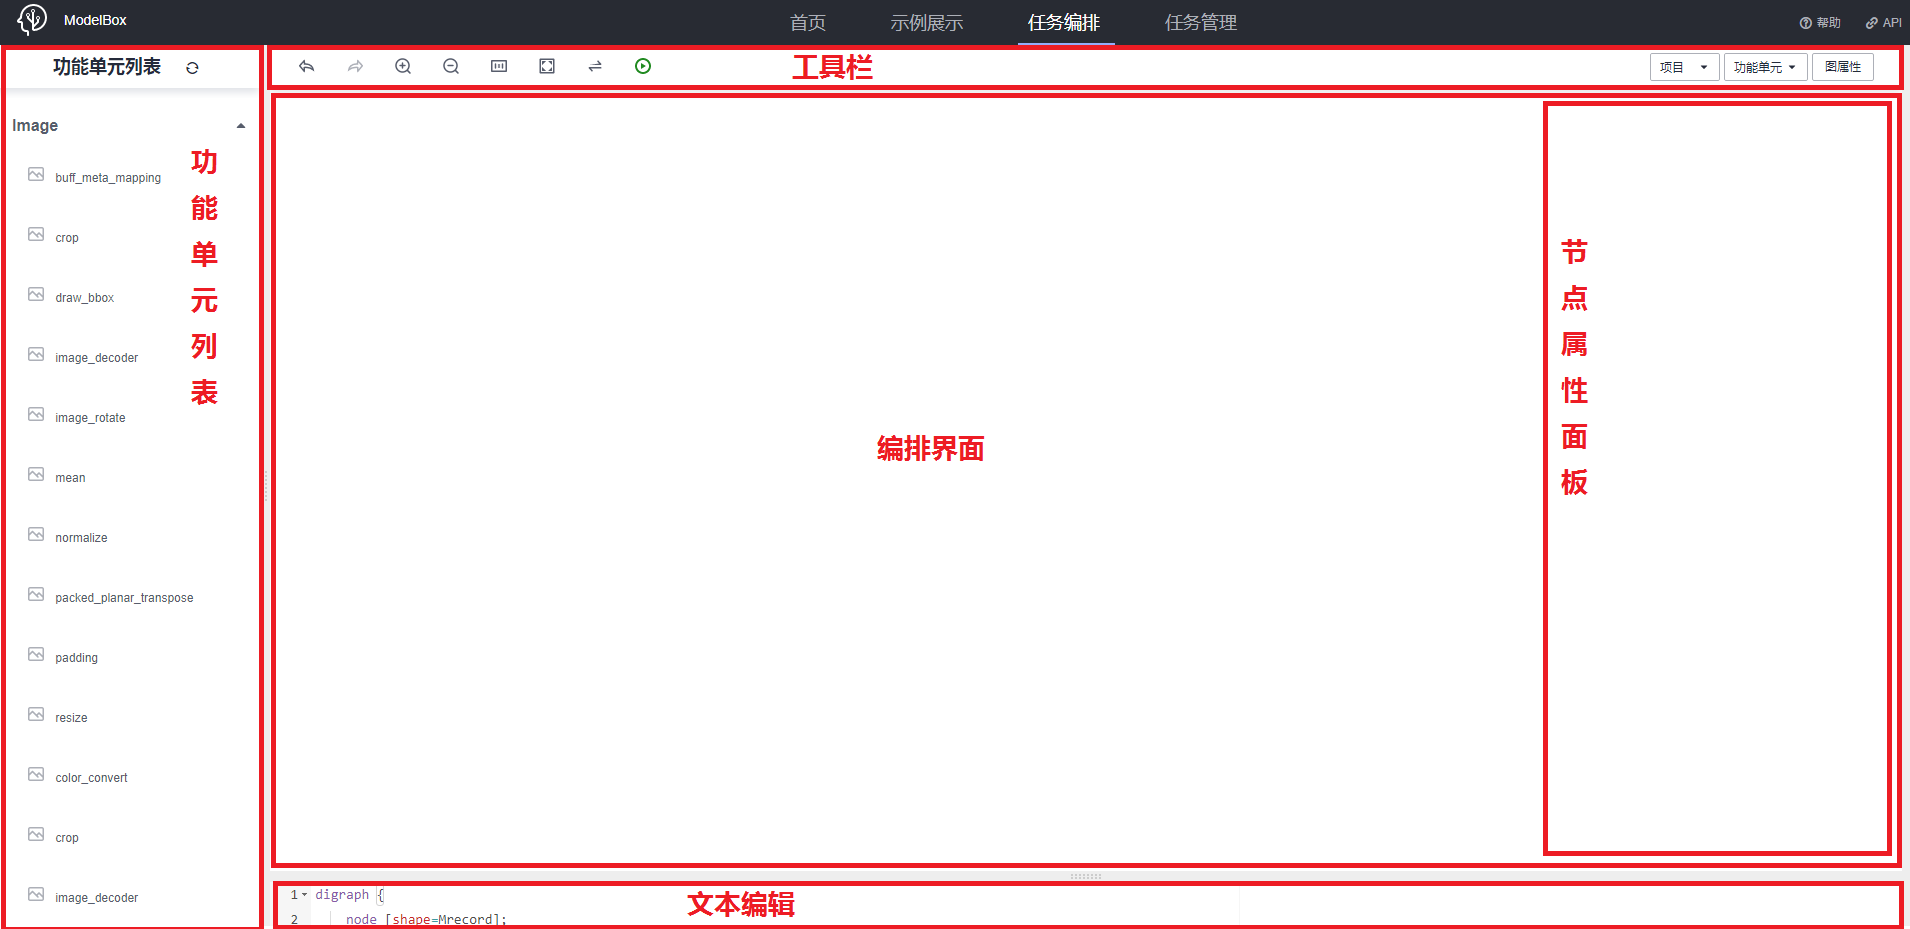
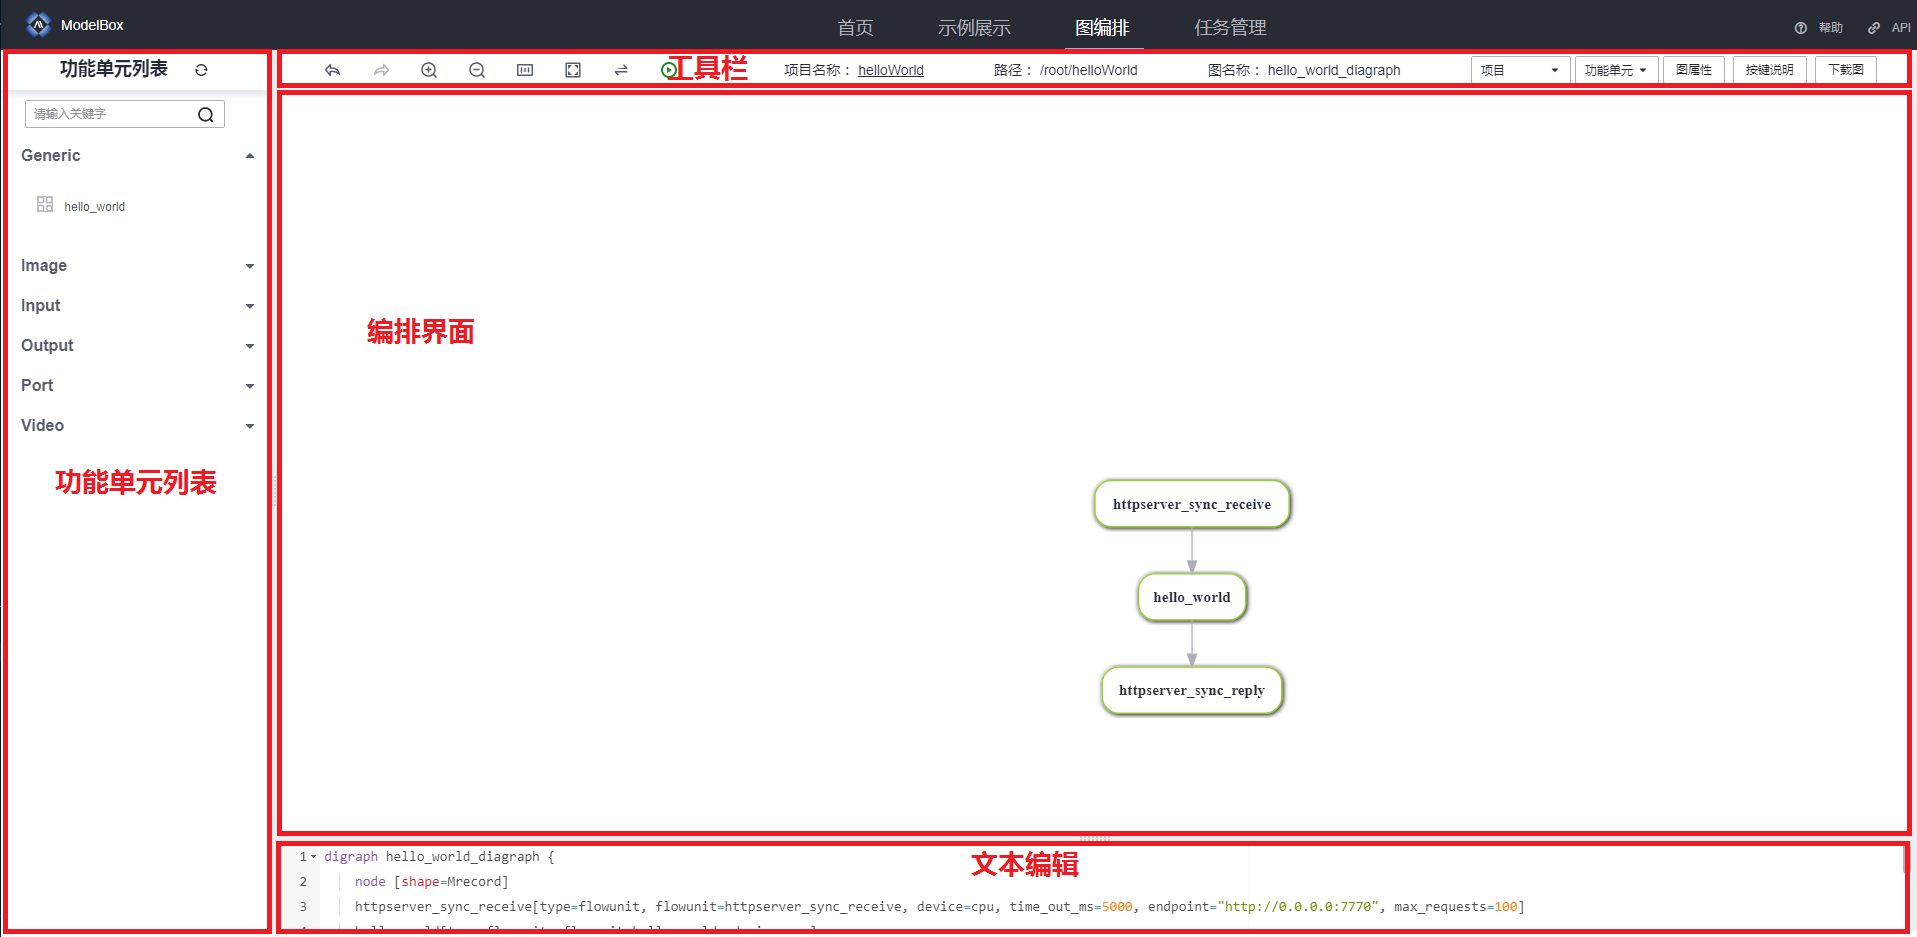
Doc: update UI editor

diff --git a/plugins/editor.md b/plugins/editor.md
@@ -1,6 +1,6 @@
 # 可视化编排插件
 
-ModelBox提供了在线可视化编排的工具——Editor，在开发时，可使用此工具，提升开发效率。
+ModelBox提供了在线可视化编排的工具——Editor。在开发时，可使用此工具进行创建项目、创建功能单元、编排图、调试等来提升开发效率。
 
 ## 编排插件是什么
 
@@ -10,30 +10,33 @@ ModelBox提供了在线可视化编排的工具——Editor，在开发时，可
 
 ![editor-feature alt rect_w_500](../assets/images/figure/server/editor-feature.png)
 
-1. 安装ModelBox server服务。
 1. 配置ModelBox Server。
-1. 配置启用编排插件。
-1. 浏览器访问Editor界面。
-1. 业务进行编排操作。
-1. 下发编排任务。
+2. 配置启用编排插件。
+3. 浏览器访问Editor界面。
+4. 业务进行编排操作。
+5. 下发编排任务。
 
 编排插件集成在ModelBox Server中，默认情况下，编排插件未启用。可以参考下方[编排插件配置](#编排插件配置)章节来启用编排插件并加载Editor界面。
 
 ## 编排插件配置
 
-ModelBox Server安装完成后，编排插件会通过插件的形式由ModelBox Server加载，并在网页浏览器上提供在线可视化编排插件。
+### 配置ModelBox Server
+
+[ModelBox Server安装](../environment/container-usage.md)完成后，编排插件会通过插件的形式由ModelBox Server加载，并在网页浏览器上提供在线可视化编排插件。
 
 对应插件路径为`"/usr/local/lib/modelbox-plugin-editor.so"`(#由于不同操作系统目录结构存在差异，此路径也可能为 `"/usr/local/lib64/modelbox-plugin-editor.so"`，下文涉及系统lib库路径的地方均存在系统路径差异)。
 
 编排插件的配置文件路径为`$HOME/modelbox-service/conf/modelbox.conf`，其配置项目如下：
 
-| 配置项目               | 配置说明                                                                    |
-| ---------------------- | --------------------------------------------------------------------------- |
-| editor.enable          | 是否启用Editor工具                                                          |
-| editor.ip              | Editor工具监听IP，默认为127.0.0.1。不指定的情况下，和server.ip一致          |
-| editor.port            | Editor工具监听端口，默认为1104，不指定情况下，和server.port一致             |
-| editor.root            | Editor前端UI路径，默认为/usr/local/share/modelbox/www                       |
-| editor.demo_root       | Editor demo路径，默认为/usr/local/share/modelbox/demo |
+| 配置项目         | 配置说明                                                           |
+| ---------------- | ------------------------------------------------------------------ |
+| editor.enable    | 是否启用Editor工具                                                 |
+| editor.ip        | Editor工具监听IP，默认为127.0.0.1。不指定的情况下，和server.ip一致 |
+| editor.port      | Editor工具监听端口，默认为1104，不指定情况下，和server.port一致    |
+| editor.root      | Editor前端UI路径，默认为/usr/local/share/modelbox/www              |
+| editor.demo_root | Editor demo路径，默认为/usr/local/share/modelbox/demo              |
+
+### 配置启用编排插件
 
 通过如下命令，可开启基于Web的可视化编辑工具——Editor：
 
@@ -45,92 +48,92 @@ modelbox-tool develop -s
 
 **如果访问被拒绝，可以尝试检查并修改ACL配置**，并重启ModelBox服务生效，详见**访问控制列表**章节。
 
-* **Editor配置**
+## Editor配置
 
   若需要定制化编排服务启动参数，可以修改配置文件，具体修改流程如下：
 
-  1. 打开`$HOME/modelbox-service/conf/modelbox.conf`，修改其中的配置项：
+1. 打开`$HOME/modelbox-service/conf/modelbox.conf`，修改其中的配置项：
+
+ ```shell
+ [server]
+ ip = "0.0.0.0"
+ port = "1104"
+ flow_path = "$HOME/modelbox-service/graph"
+ 
+ [plugin]
+ files = [
+     "/usr/local/lib/modelbox-plugin.so",
+     "/usr/local/lib/modelbox-plugin-editor.so"
+ ]
+ 
+ [control]
+ enable = true
+ listen = "$HOME/modelbox-service/run/modelbox.sock"
+ 
+ [acl]
+ allow = [
+     "127.0.0.1/8",
+     # ADD CLIENT HOST HERE
+     "192.168.59.145"
+ ]
+ 
+ [editor]
+ enable = true
+ # ip = "127.0.0.1"
+ # port = "1104"
+ root = "/usr/local/share/modelbox/www"
+ demo_root = "/usr/local/share/modelbox/demo"
+ 
+ [log]
+ # log level, DEBUG, INFO, NOTICE, WARN, ERROR, FATAL, OFF
+ level = "INFO"
+ 
+ # log archive number
+ num = 32
+ 
+ # log file path
+ path = "$HOME/modelbox-service/log/modelbox.log"
+ ```
+
+1. 重启ModelBox Server服务使配置生效。
+
+  ```shell
+  $HOME/modelbox-service/modelbox restart
+  ```
+
+  或者
+
+  ```shell
+  $HOME/modelbox-service/modelbox-manager restart
+  ```
+
+## 访问控制列表
+
+访问控制列表ACL（Access Control List）是由一条或多条规则组成的集合，里面配置了允许访问Editor的IP地址。
+可以通过修改配置文件，来修改ACL列表，具体流程如下：
+
+1. 打开`$HOME/modelbox/modelbox.conf`，修改其中的配置项：
+    假设打开编排UI的机器的IP地址为10.11.12.13
 
     ```shell
-    [server]
-    ip = "0.0.0.0"
-    port = "1104"
-    flow_path = "$HOME/modelbox-service/graph"
-    
-    [plugin]
-    files = [
-        "/usr/local/lib/modelbox-plugin.so",
-        "/usr/local/lib/modelbox-plugin-editor.so"
-    ]
-    
-    [control]
-    enable = true
-    listen = "$HOME/modelbox-service/run/modelbox.sock"
-    
     [acl]
     allow = [
-        "127.0.0.1/8",
-        # ADD CLIENT HOST HERE
-        "192.168.59.145"
+        "10.11.12.13",
     ]
-    
-    [editor]
-    enable = true
-    # ip = "127.0.0.1"
-    # port = "1104"
-    root = "/usr/local/share/modelbox/www"
-    demo_root = "/usr/local/share/modelbox/demo"
-    
-    [log]
-    # log level, DEBUG, INFO, NOTICE, WARN, ERROR, FATAL, OFF
-    level = "INFO"
-    
-    # log archive number
-    num = 32
-    
-    # log file path
-    path = "$HOME/modelbox-service/log/modelbox.log"
     ```
 
-  1. 重启ModelBox Server服务使配置生效。
+  如果没有配置任何访问白名单，则允许所有人皆可访问。
 
-     ```shell
-     $HOME/modelbox-service/modelbox restart
-     ```
+  ```shell
+      # [acl]
+      # allow = [
+      #     "10.11.12.13",
+      # ]
+  ```
 
-     或者
+1. 重启ModelBox Server服务使配置生效。
 
-     ```shell
-     $HOME/modelbox-service/modelbox-manager restart
-     ```
-
-* **访问控制列表**
-
-  访问控制列表ACL（Access Control List）是由一条或多条规则组成的集合，里面配置了允许访问Editor的IP地址。
-  可以通过修改配置文件，来修改ACL列表，具体流程如下：
-
-  1. 打开`$HOME/modelbox/modelbox.conf`，修改其中的配置项：
-     假设打开编排UI的机器的IP地址为10.11.12.13
-
-     ```shell
-      [acl]
-      allow = [
-          "10.11.12.13",
-      ]
-     ```
-
-    如果没有配置任何访问白名单，则允许所有人皆可访问。
-
-    ```shell
-       # [acl]
-       # allow = [
-       #     "10.11.12.13",
-       # ]
-    ```
-
-  1. 重启ModelBox Server服务使配置生效。
-
-## 访问编排服务
+## 浏览器访问Editor界面
 
 服务启动成功后，可使用浏览器访问服务，输入对应的网址即可，如：`http://[host]:1104/editor/`，成功后，将显示如下界面：
 
@@ -138,7 +141,7 @@ modelbox-tool develop -s
 
 在主页中，分别可以链接到**示例展示**，**任务编排**，**任务管理**。右上角可以可查看**帮助文档**以及**API**。
 
-* **示例展示**
+### 示例展示
 
   ![editor-demo alt rect_w_1000](../assets/images/figure/server/editor-demo.png)
 
@@ -168,7 +171,25 @@ modelbox-tool develop -s
 
   1. 对应网址的端口号以Docker启动脚本中的 `EDITOR_MAP_PORT` 为准，默认端口号为1104。
 
-## 任务编排页面
+### 任务管理页面
+
+![editor-management alt rect_w_1000](../assets/images/figure/server/editor-management.png)
+
+如果编排任务被下发，那么所有正在运行的任务都会显示在任务管理页面中。
+
+该页面除了可以查看运行中的任务状态，还可以对任务进行Http调试。
+
+调试功能有：`api调试`与`Base64编码`
+
+api调试：
+
+  选择模板， 修改Request中的Header和Body部分，发送请求之后得到的Reponse将显示在页面上。
+
+Base64编码：
+
+  选择需要转成base64格式的文件，即可在页面右侧得到base64代码。
+
+### 任务编排页面
 
 ![editor-main alt rect_w_1000](../assets/images/figure/server/editor-main.png)
 
@@ -180,9 +201,41 @@ modelbox-tool develop -s
 当图编排完成之后，可以通过`图属性`设置相关属性。最后，点击`项目`下面的`保存`即可将项目信息保存至后端。
 如果需要运行项目，就点击工具栏上的`运行`按钮即可。
 
-### 项目
+#### 功能单元列表
 
-`项目`下拉菜单在工具栏的左侧的第一个位置，其有四个功能，分别为：
+功能单元列表中，陈列了后端内置以及自制的功能单元。用户可以采用拖拽的方式，将所需要使用的功能单元，拖拽至编排界面。随后进行相对应的图编排以及属性配置等操作。
+
+![editor-attribute alt rect_w_1000](../assets/images/figure/server/editor-attribute.png)
+
+点击已放入编排界面的功能单元，可以通过在右侧弹出的属性面板进行配置。
+
+将鼠标悬浮至目标功能单元，在输出端口上方会显示一个白色的圆圈。点击白色的圆圈并连接至其它圆圈，即可完成功能单元的连接。
+
+所有的更改，都将反馈至下方的文本编辑区域。
+
+#### 工具栏
+
+![editor-tool-bar alt rect_w_1000](../assets/images/figure/server/editor-tool-bar.png)
+
+工具栏分为左中右三个区域。
+
+1. 左侧区域
+  
+  该区域包括了图的显示工具（回退，重做，放大，缩小，重置缩放，自适应，切换布局）以及运行按钮。
+
+1. 中部区域
+
+  该区域显示了项目名称，路径，当前处于编排界面的图名称以及编辑状态。
+
+1. 右侧区域
+
+  该区域包括了项目的相关功能，功能单元的相关功能，图属性，按键说明以及下载图。
+
+#### 项目
+
+![editor-project](../assets/images/figure/server/editor-project.png)
+
+`项目`下拉菜单在工具栏的左侧的第一个位置，其有八个功能，分别为：
 
 1. 新建项目
 
@@ -192,19 +245,37 @@ modelbox-tool develop -s
 
 1. 打开项目
 
-  输入项目路径，点击`确认`即可打开项目。
+  输入项目路径，或通过单击文件夹名称来选择项目，最后点击`确认`即可打开项目。
 
   ![editor-open-project](../assets/images/figure/server/editor-open-project.png)
 
-1. 保存
+1. IDE打开工程
 
-  将更改的内容保存至后端。
+  点击`批处理`即可下载脚本。直接运行脚本，可自动配置并打开远程连接至目标容器。
 
-1. 关闭
+  ![editor-ide](../assets/images/figure/server/editor-ide.png)
 
-  将会清空保存在浏览器中的项目数据。
+1. 关闭项目
 
-### 功能单元
+  将会清空保存在浏览器中的项目数据，并停止当前项目正在运行的编排服务。
+
+1. 新建图
+
+  输入新图名称之后，将新建图。如果需要保存当前图文件，需要`保存图`将图文件保存至后台。
+
+1. 选择图
+  
+  可以选择当前项目中已保存至后台的图文件，点击确认之后，将从后台拉取至编排界面。
+
+1. 保存图
+
+  将当前编排界面的图文件保存至后台。
+
+1. 同步图
+
+  将后台的图文件覆盖当前编排界面的图文件。
+
+#### 功能单元
 
 1. 新建单元
 
@@ -218,22 +289,4 @@ modelbox-tool develop -s
 
 1. 刷新单元
 
-  如果在后端对功能单元进行了更改，可用该功能直接加载更新后的功能
-
-## 任务管理页面
-
-![editor-management alt rect_w_1000](../assets/images/figure/server/editor-management.png)
-
-该页面除了可以查看运行中的任务状态，还可以对任务进行调试。
-
-调试功能有：`api调试`与`转base64`
-
-* api调试
-
-  选择相关模板， 修改Request中的Header和Body部分，发送请求之后得到的Reponse将显示在页面上。
-
-  也可以不加载模板，直接进行调试。
-
-* 转base64
-
-  选择需要转成base64格式的文件，即可在页面右侧得到base64代码。
+  如果在后端对功能单元直接进行了更改，可用该功能直接加载更新后的功能单元

diff --git a/environment/container-usage.md b/environment/container-usage.md
@@ -16,7 +16,7 @@ ModelBox目前提供了支持CUDA，Ascend加速卡硬件和TensoFlow，LibTorch
 
 ## 容器镜像下载
 
-使用以下命令拉取相关的镜像。比如cuda11.2，TensorFlow的unbuntu开发镜像，则下载最新版本镜像命令如下：
+使用以下命令拉取相关的镜像。比如cuda11.2，TensorFlow的ubuntu开发镜像，则下载最新版本镜像命令如下：
 
 ```shell
 docker pull modelbox/modelbox-develop-tensorflow_2.6.0-cuda_11.2-ubuntu-x86_64:latest
